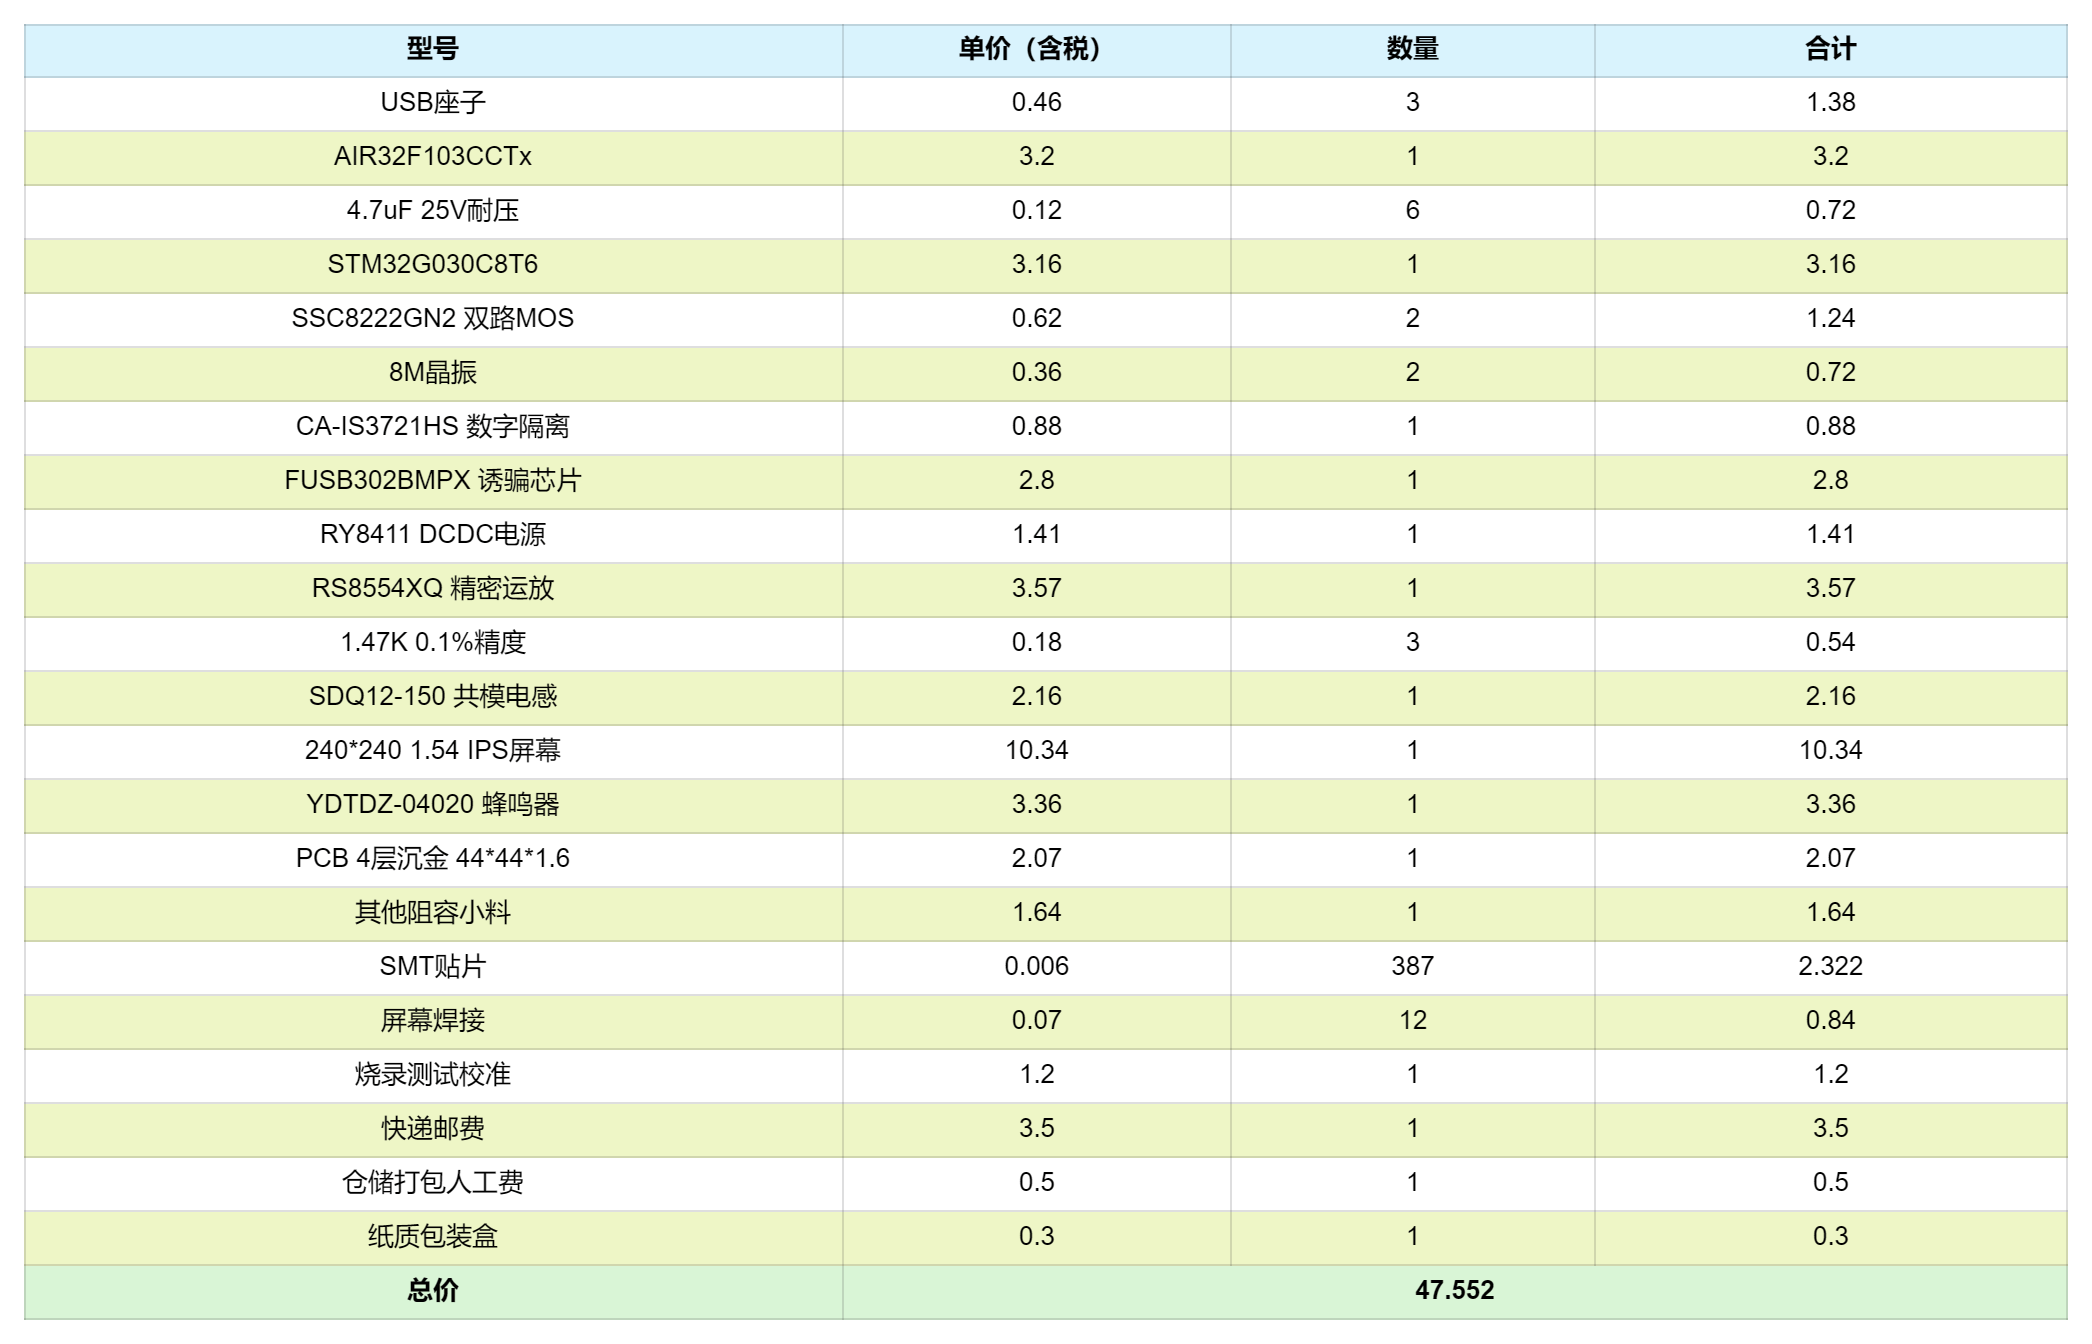
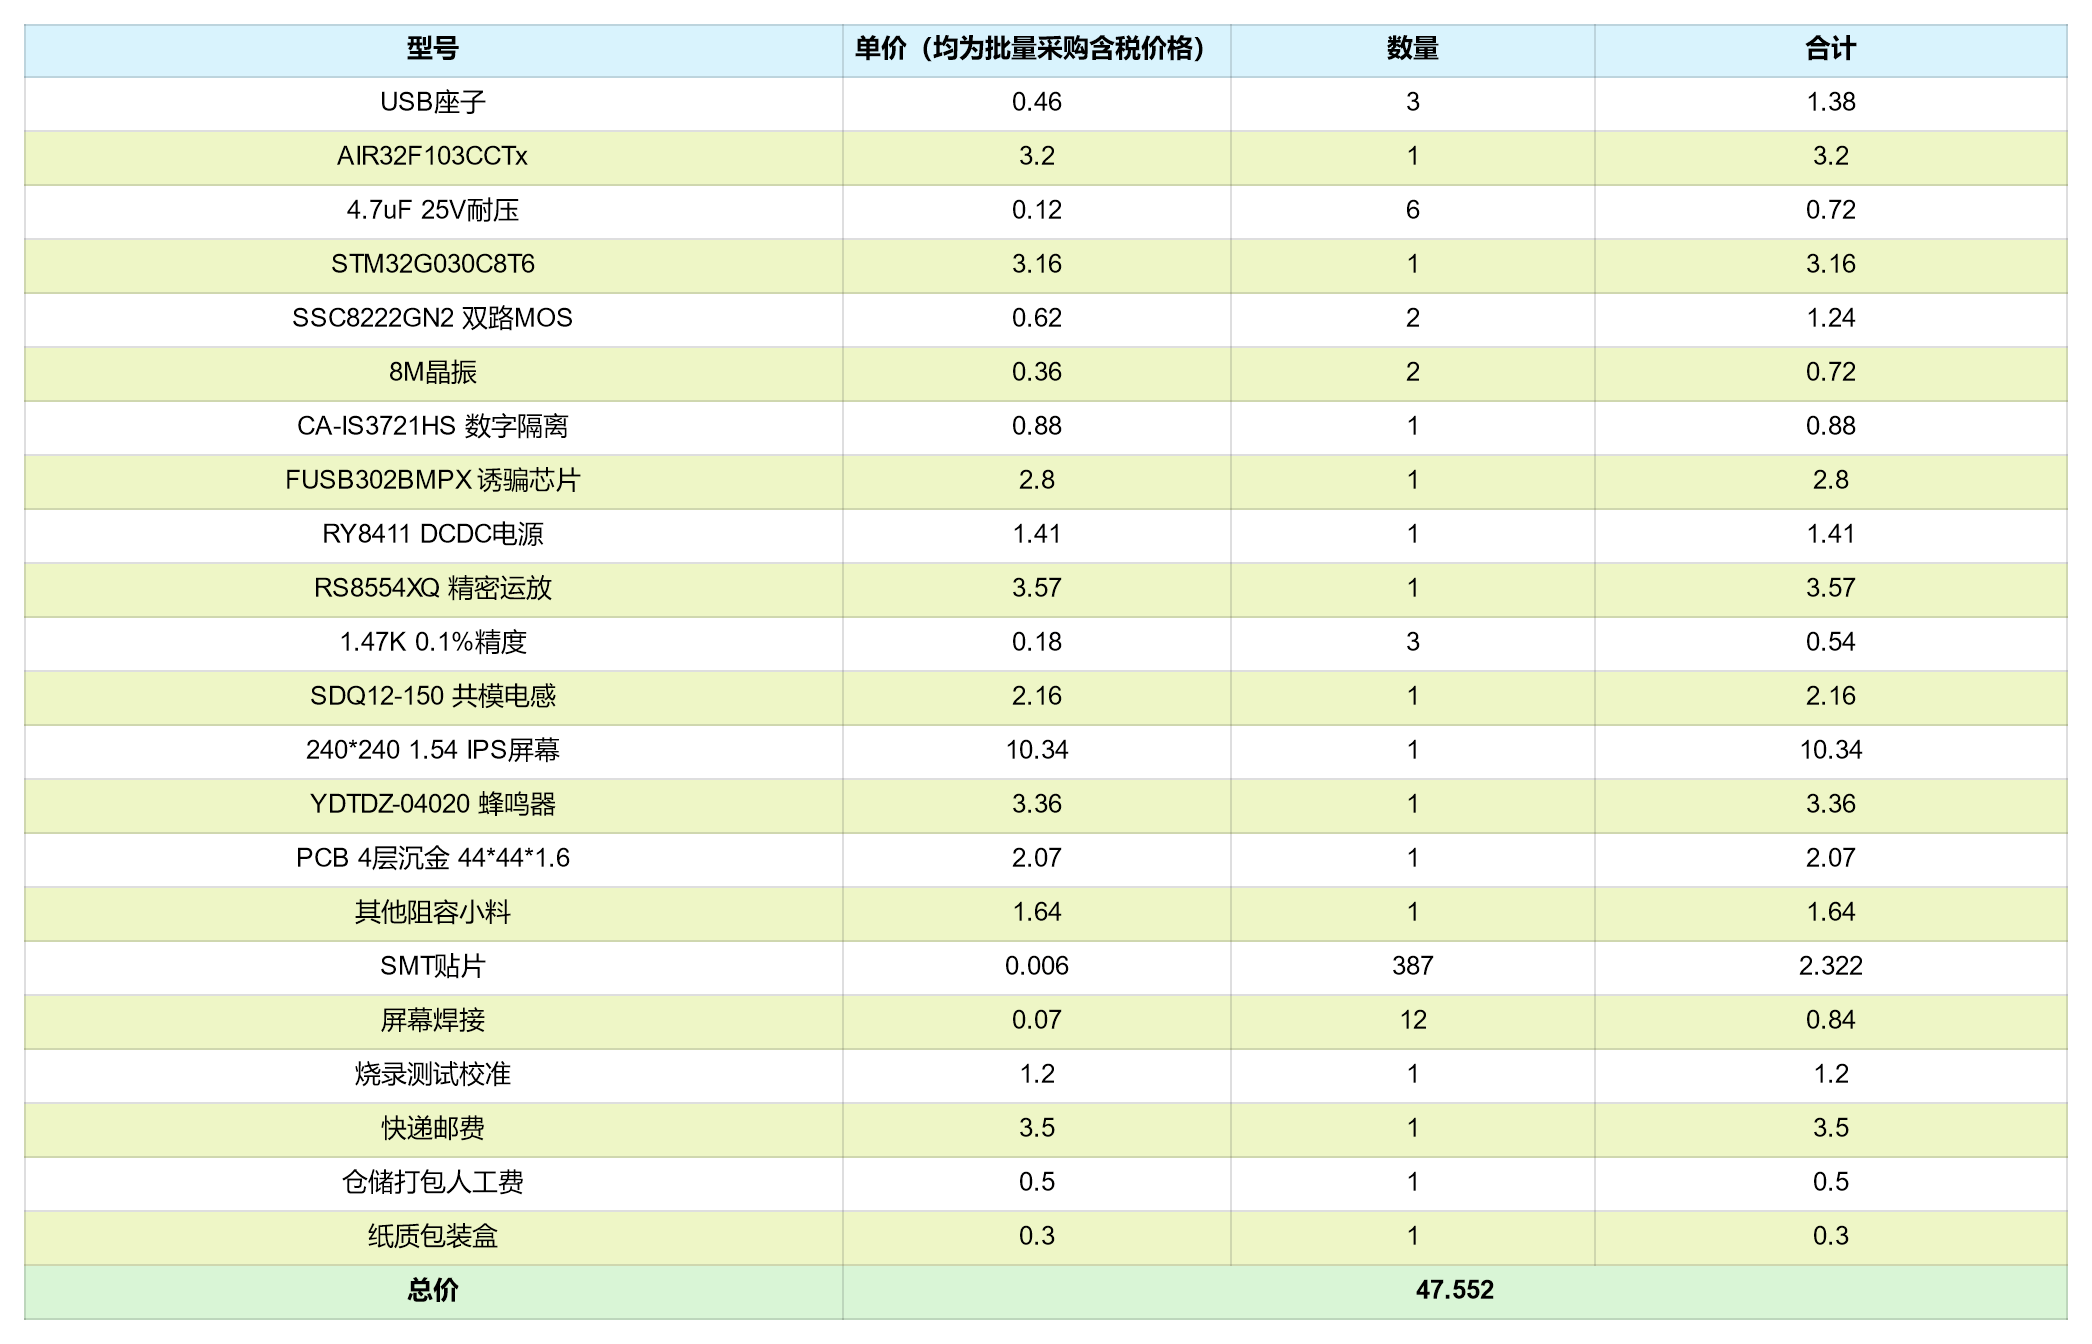
update: 添加描述

diff --git a/iotpower/cc/index.md b/iotpower/cc/index.md
@@ -64,7 +64,7 @@ IOT Power CC是广大用户随身携带的理想测试工具。
 ## BOM成本公开
 
 ```{note}
-如有更低的供货价格（含税价格），提供品质一致的产品，请联系我们！
+此处价格均为批量含税价，如有更低的供货价格，提供品质一致的产品，请联系我们！
 ```
 
 ![cost](img/cost.png)
